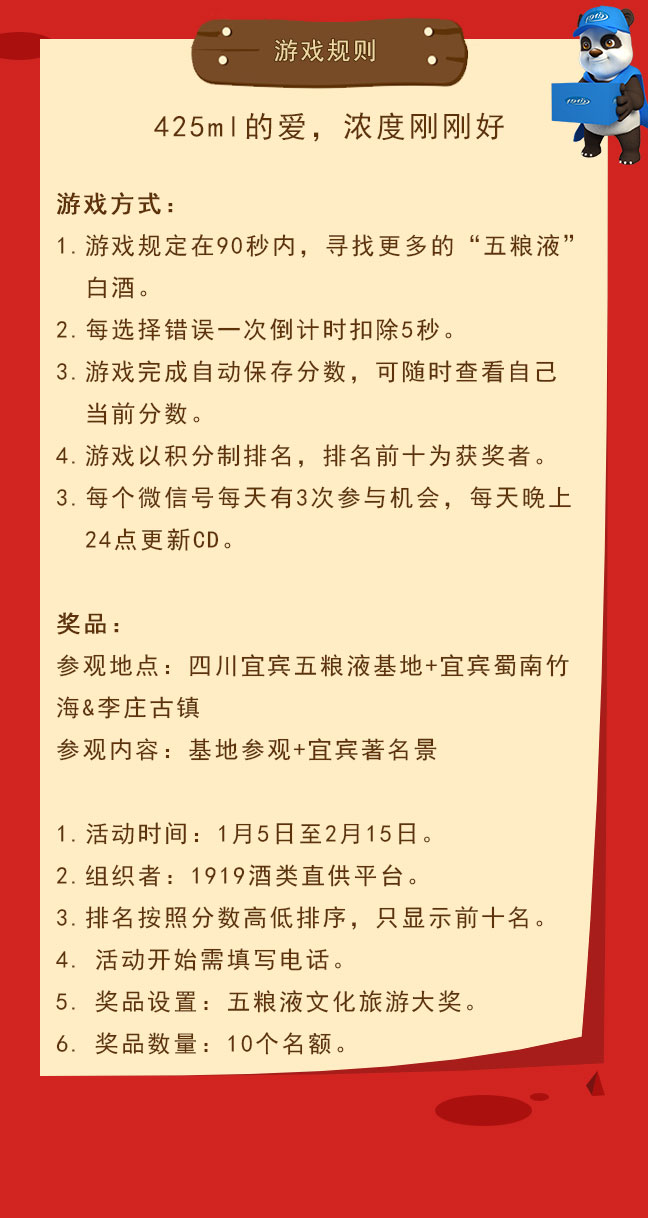
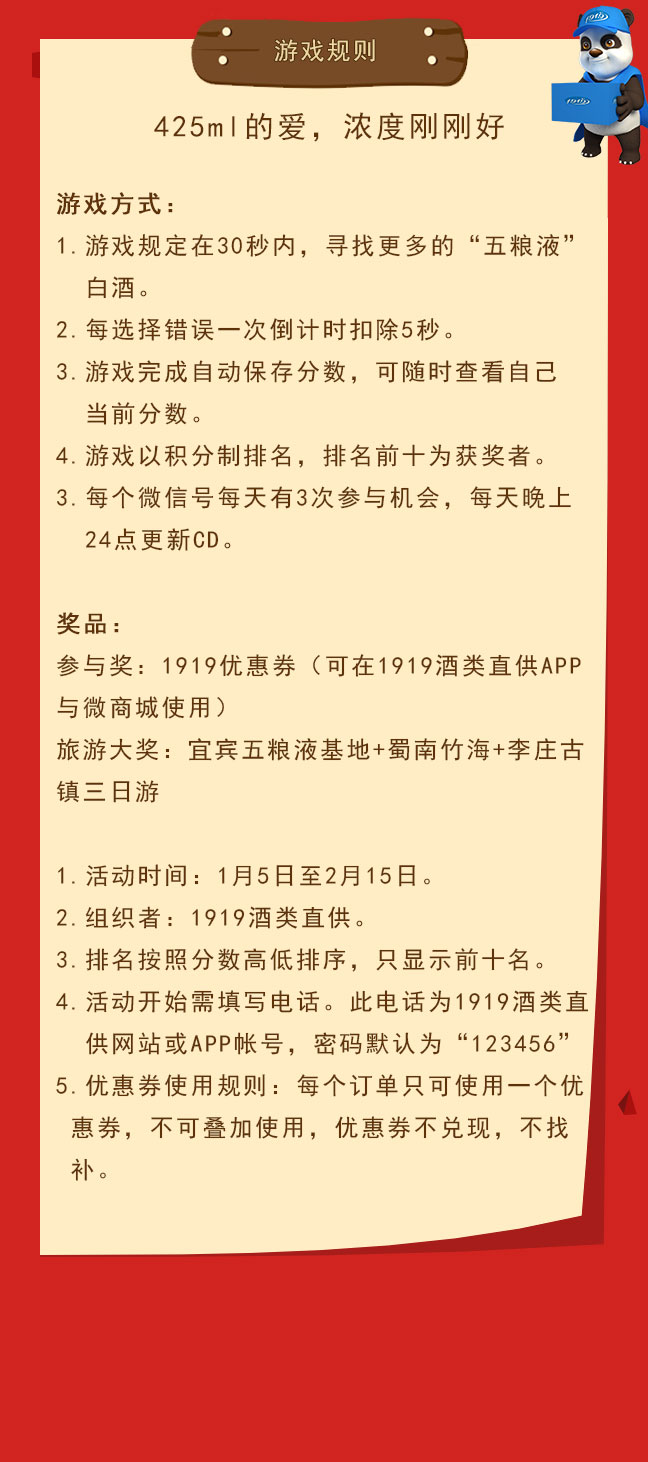
修改连接

diff --git a/public/css/style.css b/public/css/style.css
@@ -53,7 +53,7 @@ body {
 
 #gamecontainer .blocks {
 
-/*
+
     display: -webkit-flex;
     display: flex;
     flex-wrap: wrap;
@@ -64,7 +64,7 @@ body {
     -webkit-flex-wrap: wrap;
     -webkit-justify-content: space-around;
     justify-content: space-around;
-*/
+
     
     box-sizing: border-box;
     margin: 0 10px;
@@ -86,10 +86,10 @@ body {
     
     display: -webkit-flex;
     display: flex;
-	border: 5px solid #89000d;
-	border-radius: 4px;
-	box-sizing: border-box;
-	float: left;    
+    border: 5px solid #89000d;
+    border-radius: 4px;
+    box-sizing: border-box;
+    float: left;    
     cursor: pointer;
     position: relative;
     background: #e09620;
@@ -114,8 +114,8 @@ body {
 }
 
 #gamecontainer .blocks.level_6 .block{
-    width: 15%;
-    height: 15%;
+    width: 16%;
+    height: 16%;
 }
 
 #gamecontainer .blocks .block.right:after {
@@ -293,6 +293,16 @@ body {
     margin-right: 10px;
 }
 
+.score .cupon{
+    position: absolute;
+    width: 100px;
+    left: 120px;
+}
+
+.score .cupon img{
+    width: 100px;
+}
+
 .register .btns {
     bottom: 35px!important;
 }
@@ -301,6 +311,7 @@ body {
     margin: 0px;
     font-size: 13px;
     color: #ddd;
+    line-height: 20px;
 }
 
 .register .register-btn {

diff --git a/resources/views/welcome.blade.php b/resources/views/welcome.blade.php
@@ -131,6 +131,7 @@
                     </div>
                     <span style="" class="left-times">剩余机会 @{{leftTimes}}</span>
                     <span class="close" ng-click="closeThisDialog()">x</span>
+                    <a href="http://wx.1919.cn/b2c1919/member/coupon_code/getlist.jhtml?from=singlemessage&isappinstalled=0" class="cupon"><img src="img/btns/cupon.png"></a>
                 </div>
             </div>
         </script>
@@ -144,7 +145,7 @@
                             <input type="text" ng-model="user.name" value="" placeholder="姓名">
                         </form>
 
-                        <p class="info">留下您的信息，以便中奖后联系你</p>
+                        <p class="info">此电话为1919酒类直供网站和APP帐号<br>默认密码为 123456  </p>
                     </div>
                     <div class="btns">
                         <button type="button" class="register-btn btn" ng-click="save()">注册</button>
@@ -155,7 +156,7 @@
         </script>
         <script type="text/ng-template" id="templates/intro.html">
             <div class="intro">
-                <img src="img/home.png" alt="">
+                <img src="img/home.jpg" alt="">
                 <div class="intro-start" ng-click="start()">
                     <img src="img/home/intro-start-button.png " alt="">
                 </div>
